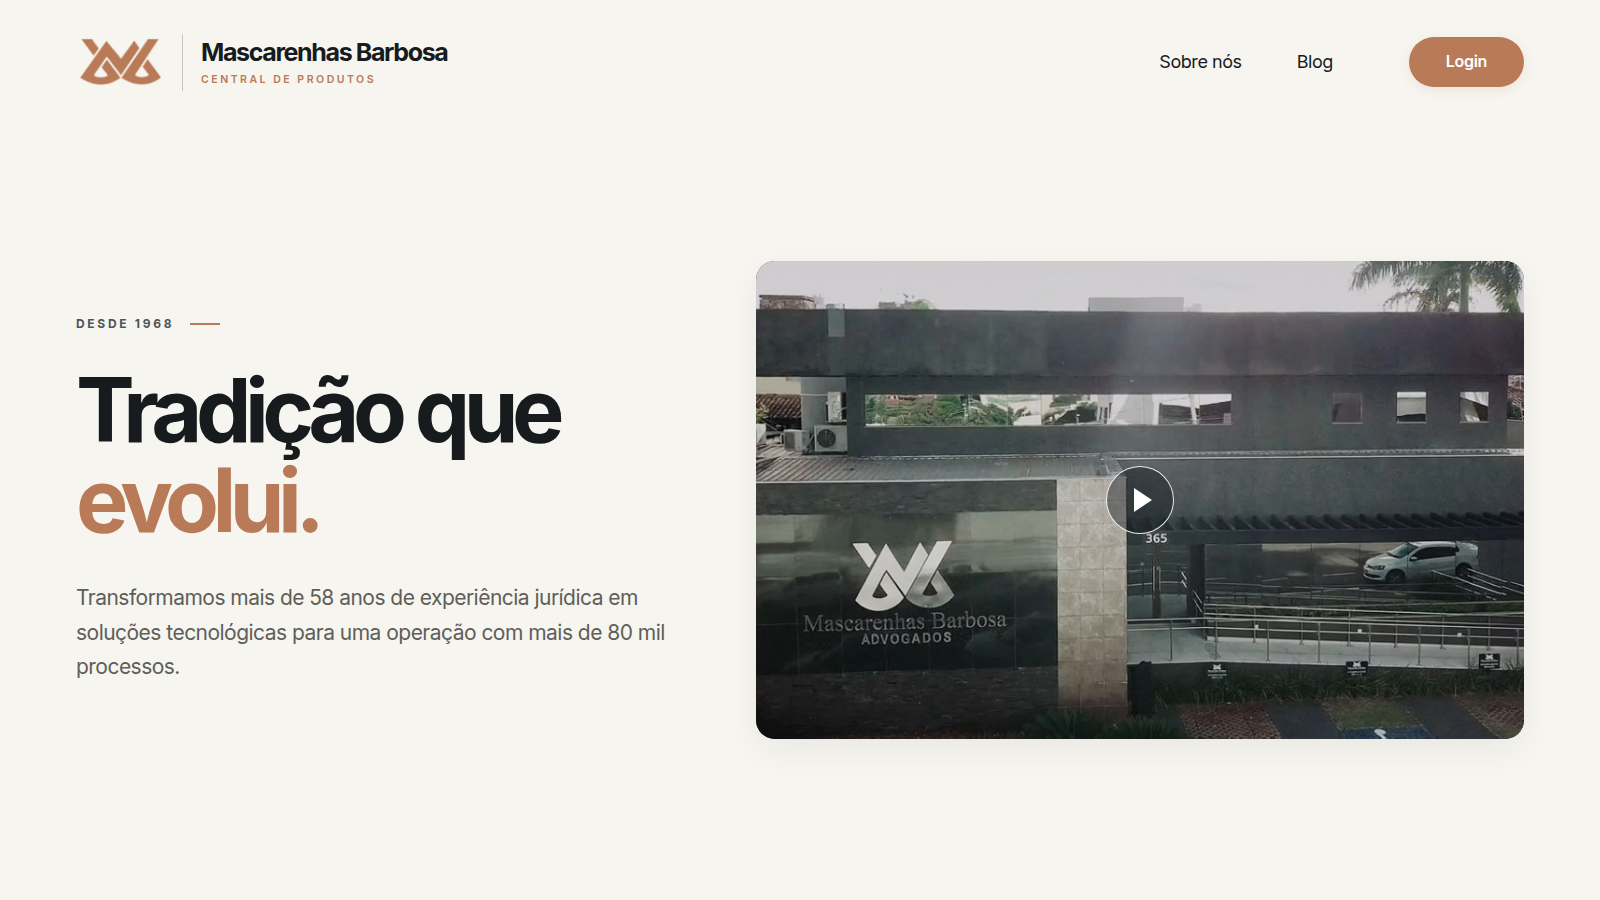
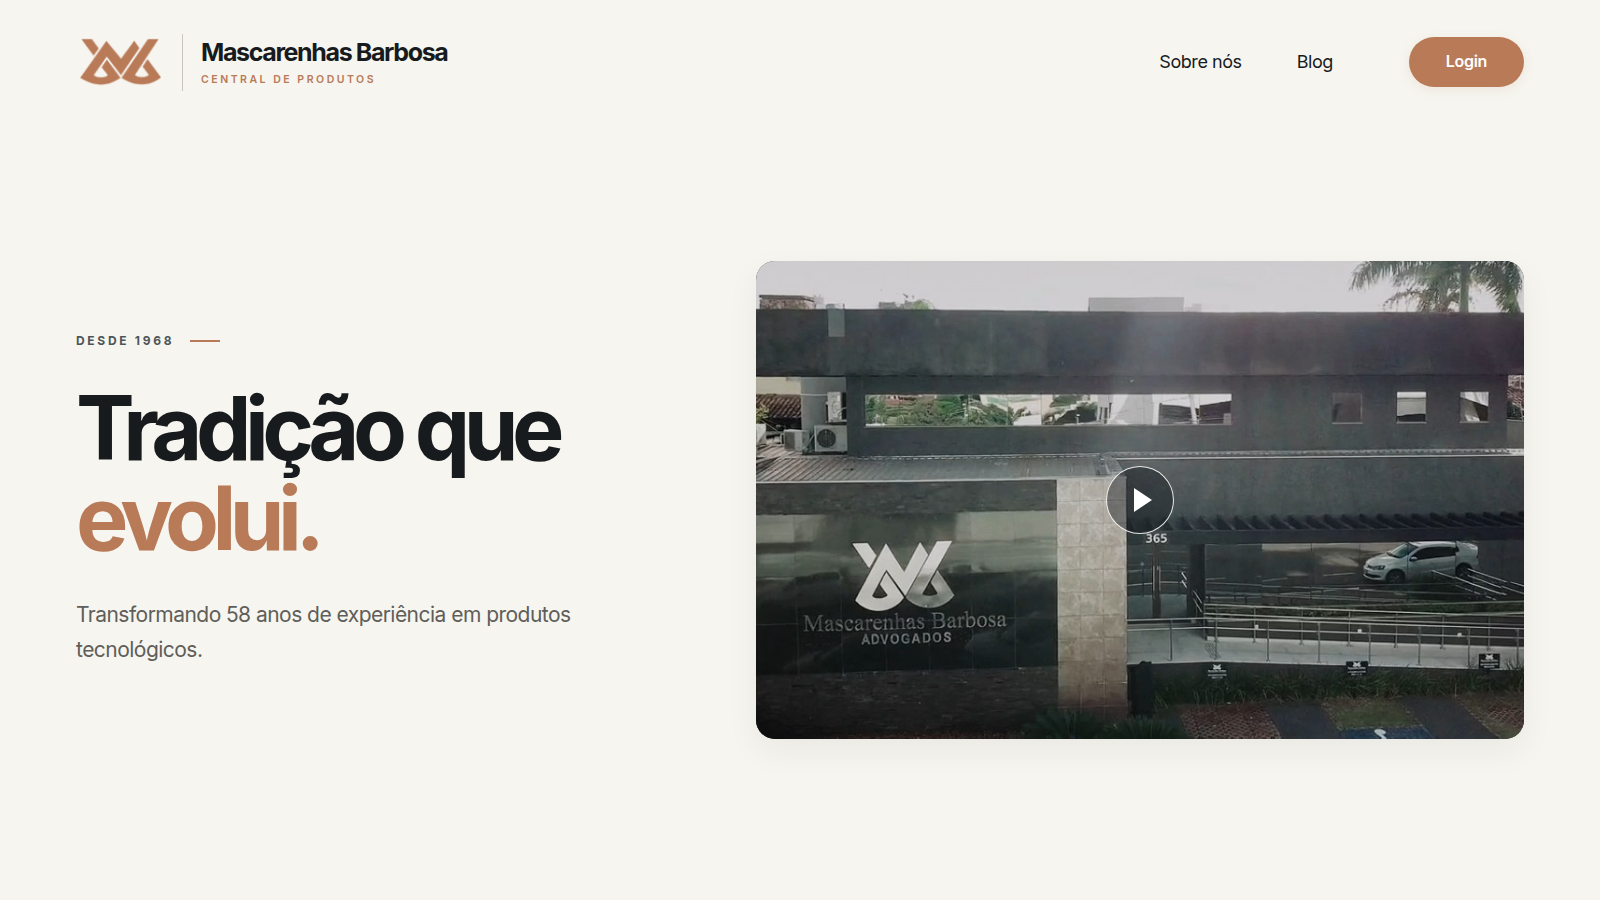
copy(landing): simplify institutional hero subtitle

Changed region(s): [[0.0312, 0.3422, 0.375, 0.6222], [0.0312, 0.6533, 0.4062, 0.7467]]

diff --git a/src/login/main.tsx b/src/login/main.tsx
@@ -185,7 +185,7 @@ function LoginPage() {
           <div className="lp-copy">
             <p className="lp-eyebrow">Desde 1968</p>
             <h1 id="lp-hero-title">Tradição que <em>evolui<span className="lp-period">.</span></em></h1>
-            <p className="lp-subtitle">Transformamos mais de 58 anos de experiência jurídica em soluções tecnológicas para uma operação com mais de 80 mil processos.</p>
+            <p className="lp-subtitle">Transformando 58 anos de experiência em produtos tecnológicos.</p>
           </div>
           <InstitutionalVideo/>
         </section>
